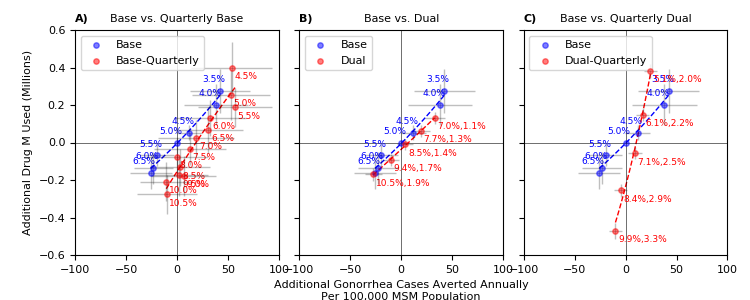
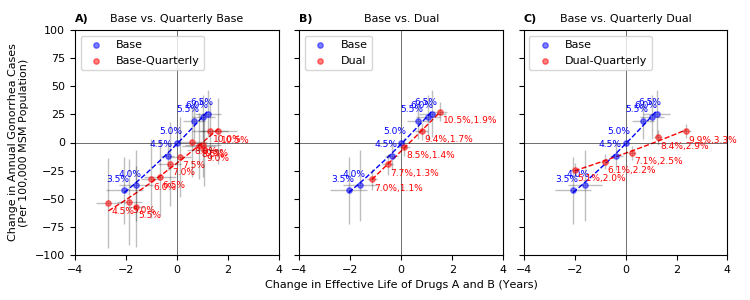
sa

diff --git a/gonorrhea/SADisplaySeries.py b/gonorrhea/SADisplaySeries.py
@@ -3,7 +3,7 @@ import gonorrhea.GonoSettings as Set
 import apace.VisualizeScenarios as Vis
 
 # change this to false to show M used
-SHOW_EFFECTIVE_LIFE = False
+SHOW_EFFECTIVE_LIFE = True
 SIM_LENGTH = 50     # years
 POP_RATE = 0.1e6/5e6
 
@@ -12,6 +12,7 @@ if SHOW_EFFECTIVE_LIFE:
     Cls.COST_MEASURE = 'Average ratio: Effective life of AB'
     effect_mult = -1 / SIM_LENGTH * POP_RATE
     cost_mult = SIM_LENGTH
+    wtp_mult = 1# -effect_mult / cost_mult
     switch_cost_effect = True
     Set.X_RANGE = (-4, 4)
     Set.Y_RANGE = (-100, 100)
@@ -22,14 +23,12 @@ else:
     Cls.COST_MEASURE = 'Total Cost'
     effect_mult = 1 / SIM_LENGTH * POP_RATE
     cost_mult = 1 / 1e6
+    wtp_mult = effect_mult / cost_mult
     switch_cost_effect = False
     Set.X_RANGE = (-100, 100)
     Set.Y_RANGE = (-0.6, 0.6)
     labels = ('Additional Gonorrhea Cases Averted Annually\nPer 100,000 MSM Population',
               'Additional Drug M Used (Millions)')
-
-# find the wtp multiplier
-wtp_mult = effect_mult / cost_mult
 
 
 Vis.multi_plot_series(
